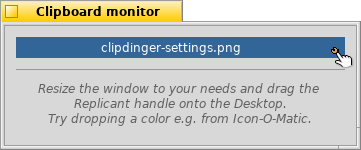
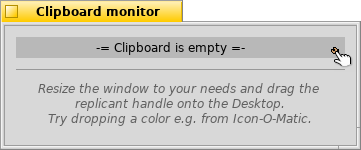
Updated documentation

Changed region(s): [[0.0305, 0.24, 1.0, 0.4533], [0.1828, 0.64, 0.7922, 0.7467]]

diff --git a/ReadMe.html b/ReadMe.html
@@ -123,13 +123,14 @@ for <a href="http://www.haiku-os.org">Haiku</a><br />
 <h2>
 <a href="#"><img src="images/up.png" style="border:none;float:right" alt="index" /></a>
 <a id="monitor" name="monitor">Clipboard monitor</a></h2>
-<p>You can open the <span class="menu">Clipboard monitor</span> from the <span class="menu">App</span> menu. It simply shows the current contents of the clipboard, which helps if you have to continuously switch between some clips in the history/favorites.<br />
-The Clipboard monitor can be used as a Replicant on the Desktop:</p>
+<p>You can open the <span class="menu">Clipboard monitor</span> from the <span class="menu">App</span> menu. It simply shows the current contents of the clipboard, which helps keeping track if you have to continuously switch between some clips in the history/favorites.<br />
+The Clipboard monitor can be used as a replicant on the Desktop:</p>
 <div align = "center">
-<img src="./images/clipboard-monitor.png" alt="Clipboard monitor as Replicant" />
+<img src="./images/clipboard-monitor.png" alt="Clipboard monitor as replicant" />
 </div>
 <p>Adjust the window size until it fits your needs, then drag the little handle onto the Desktop. Make sure the option to <span class="menu">Show replicants</span> in the Deskbar is active.</p>
 <p>You can change the background by dropping a color onto it from any application, like e.g. Icon-O-Matic. Like the icon labels on the Desktop, the color of the text will toggle automatically between black and white according to the brightness of the dropped background color.</p>
+<p>As a replicant the Clipboard monitor doesn't need a running Clipdinger to work. Double-clicking on the replicant will, however, summon Clipdinger by either launching it or simply unhiding its main window.</p>
 
 <h2>
 <a href="#"><img src="images/up.png" style="border:none;float:right" alt="index" /></a>
@@ -155,7 +156,7 @@ Below the sliders is a summary of your setting in plain English.</p>
 <li><p>Changes in the settings window can be viewed live in the main window. To find the right fading settings for you, it's best to keep working normally for some time to fill the history and then just play around with the sliders until you're satisfied.</p></li>
 <li><p>Clipdinger's <span class="menu">Auto-paste</span> feature can be a bit tricky: It doesn't know in which application's window you pressed <span class="key">SHIFT</span> <span class="key">ALT</span> <span class="key">V</span> for it to pop up. With activated auto-paste, it simply pastes into last window that was active before you hit <span class="key">ENTER</span> or double-clicked an entry. So, avoid detours...</p></li>
 <li><p>If you want to back up Clipdinger's settings, history or favorites, or have the need to delete one or all of these files, you'll find them under <span class="path">/boot/home/config/settings/Clipdinger/</span>.</p></li>
-<li><p>If the Replicant of the Clipboard monitor unexpectedly gives you grieve (or any Replicant for that matter), you can remove all Replicants on the Desktop by deleting <span class="path">/boot/home/config/settings/Tracker/tracker_shelf</span>.</p></li>
+<li><p>If the replicant of the Clipboard monitor unexpectedly gives you grieve (or any replicant for that matter), you can remove all replicants on the Desktop by deleting <span class="path">/boot/home/config/settings/Tracker/tracker_shelf</span>.</p></li>
 </ul>
 
 <h2>
@@ -179,10 +180,11 @@ Also, thanks to everyone that contributed translations for Clipdinger.</p>
 <a href="#"><img src="images/up.png" style="border:none;float:right" alt="index" /></a>
 <a id="history" name="history">History</a></h2>
 
-<p><b>0.5.5</b> - <i>19-11-2016:</i></p>
+<p><b>0.5.5</b> - <i>22-11-2016:</i></p>
 <ul>
 <li>Added auto start setting.</li>
 <li>Added replicatable clipboard monitor.</li>
+<li>Bug fix: When Clipdinger is launched, check for existing clipboard contents  and add it to its history.</li>
 </ul>
 
 <p><b>0.5.4</b> - <i>12-06-2016:</i></p>

diff --git a/ReplWindow.cpp b/ReplWindow.cpp
@@ -87,7 +87,7 @@ ReplWindow::_BuildLayout()
 	welcomeText->SetStylable(true);
 	welcomeText->SetAlignment(B_ALIGN_CENTER);
 	welcomeText->SetText(B_TRANSLATE(
-		"Resize the window to your needs and drag the Replicant handle "
+		"Resize the window to your needs and drag the replicant handle "
 		"onto the Desktop.\nTry dropping a color e.g. from Icon-O-Matic."));
 
 	font_height fheight;

diff --git a/Readme.md b/Readme.md
@@ -32,13 +32,15 @@ You can quickly switch between history and favorites lists with _CursorRight/Lef
 ### Clipboard monitor
 
 You can open the _Clipboard monitor_ from the _App_ menu. It simply shows the current contents of theclipboard, which helps if you have to continuously switch between some clips in the history/favorites.
-The Clipboard monitor can be used as a Replicant on the Desktop:
+The Clipboard monitor can be used as a replicant on the Desktop:
 
 ![screenshot](./images/clipboard-monitor.png)
 
 Adjust the window size until it fits your needs, then drag the little handle onto the Desktop. Make sure the option to _Show replicants_ in the Deskbar is active.
 
 You can change the background by dropping a color onto it from any application, like e.g. Icon-O-Matic. Like the icon labels on the Desktop, the color of the text will toggle automatically between black and white according to the brightness of the dropped background color.
+
+As a replicant the Clipboard monitor doesn't need a running Clipdinger to work. Double-clicking on the replicant will, however, summon Clipdinger by either launching it or simply unhiding its main window.
 
 ### Settings
 
@@ -68,7 +70,7 @@ If you leave your computer or just know that you won't do any copy&paste for a l
 *   Changes in the settings window can be viewed live in the main window. To find the right fading settings for you, it's best to keep working normally for some time to fill the history and then just play around with the sliders until you're satisfied.
 *   Clipdinger's _Auto-paste_ feature can be a bit tricky: It doesn't know in which window you pressed _SHIFT_ + _ALT_ + _V_ for it to pop up. With activated auto-paste, it simply pastes into last window that was active before you hit _ENTER_ or double-clicked an entry. So, avoid detours...
 *   If you want to back up Clipdinger's settings, history or favorites, or have the need to delete one or all of these files, you'll find them under `/boot/home/config/settings/Clipdinger/`.
-*	If the Replicant of the Clipboard monitor unexpectedly gives you grieve (or any Replicant for that matter), you can remove all Replicants on the Desktop by deleting `/boot/home/config/settings/Tracker/tracker_shelf`.
+*	If the replicant of the Clipboard monitor unexpectedly gives you grieve (or any replicant for that matter), you can remove all replicants on the Desktop by deleting `/boot/home/config/settings/Tracker/tracker_shelf`.
 
 
 ### Download
@@ -87,10 +89,11 @@ Also, thanks to everyone that contributed translations for Clipdinger.
 
 ### History
 
-**0.5.5** - _19-11-2016:_
+**0.5.5** - _22-11-2016:_
 
 *   Added auto start setting.
 *   Added replicatable clipboard monitor.
+*	Bug fix: When Clipdinger is launched, check for existing clipboard contents  and add it to its history.
 
 **0.5.4** - _12-06-2016:_
 
